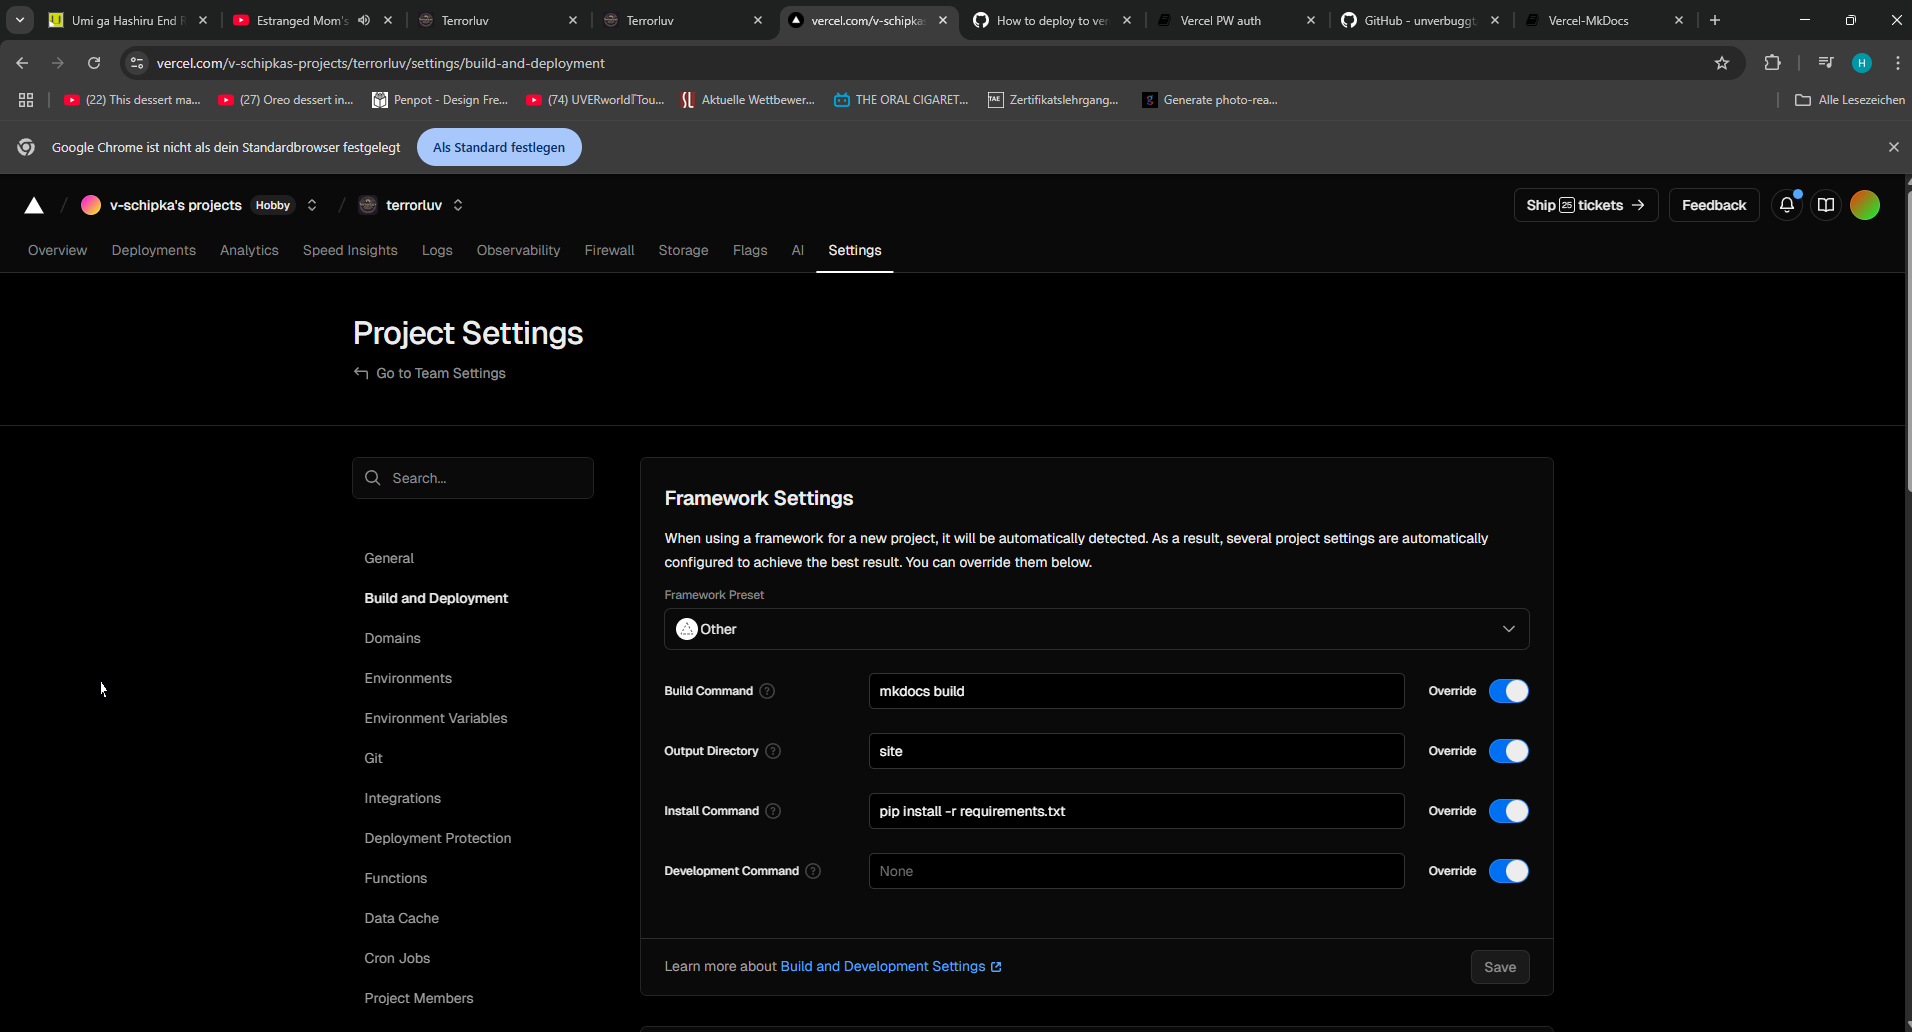
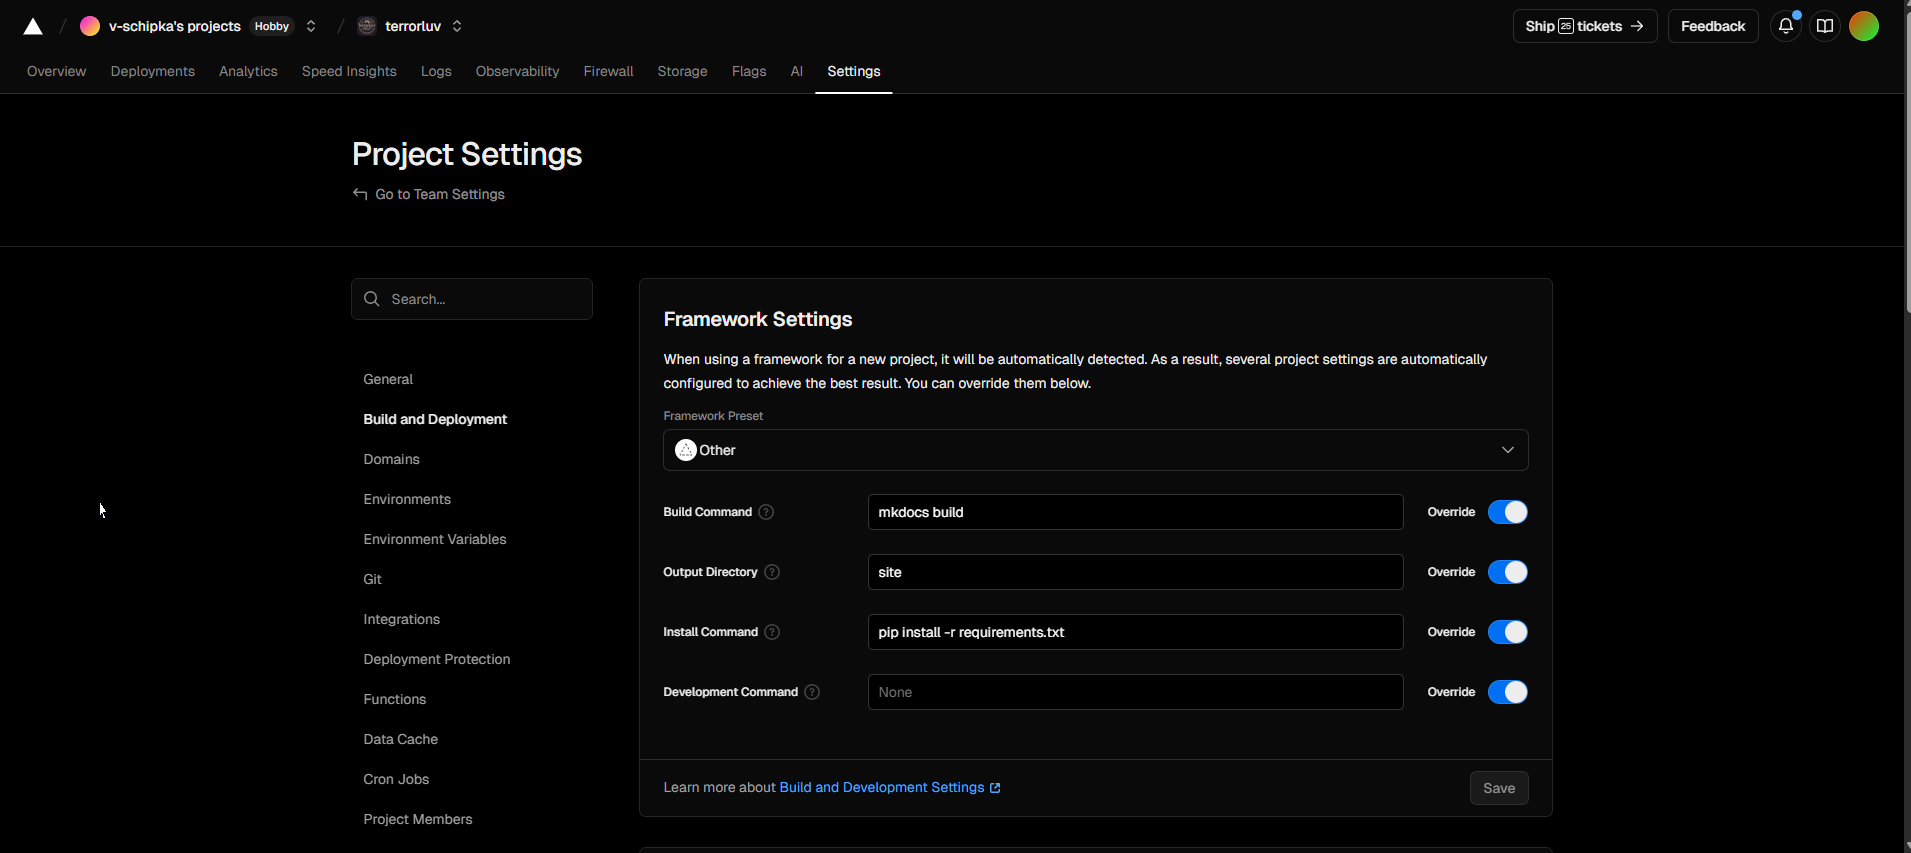
Vale + NotebookLM

diff --git a/content/Tools & Scripts/Vale.md b/content/Tools & Scripts/Vale.md
@@ -1,0 +1,126 @@
+---
+publish: true
+---
+
+Vale is an open source style & grammar Linter.
+It enforces style guides and integrates into CI/CD alongside [[MkDocs]] and other [[Static Site Generators]].
+
+## Resources
+- [Vale Website](https://vale.sh/)
+- [Vale Documentation](https://vale.sh/docs)
+- [Vale Config Generator](https://vale.sh/generator)
+- [Vale Extension for VS Code](https://marketplace.visualstudio.com/items?itemName=ChrisChinchilla.vale-vscode)
+
+## Setup
+
+1. Install Vale from the [Vale GitHub project](https://github.com/errata-ai/vale).
+2. Create a `.vale.ini` config file in the **root of your MkDocs project**:
+```ini
+StylesPath = .vale-styles 
+# StylesPath → location of custom rules
+MinAlertLevel = suggestion
+# MinAlertLevel → can be `suggestion`, `warning`, or `error`.
+
+# Directories to lint
+[*.{md,markdown}]
+BasedOnStyles = Google, write-good
+# BasedOnStyles → choose base style guides (Vale ships with Google, Microsoft, write-good, etc.).
+
+```
+3. Create a folder `.vale-styles` to add style rules, e.g., a rule to avoid “simply”:
+```yaml
+# .vale-styles/Custom/Weasel.yml
+extends: existence
+message: "Avoid using '%s' — it can weaken your writing."
+ignorecase: true
+level: warning
+tokens:
+  - simply
+  - obviously
+  - clearly
+
+```
+4. Run both `mkdocs serve` and `vale --watch docs/` in two terminals to check your docs. `--watch` makes Vale continuously lint files and show warnings whenever you save changes. So you have MkDocs hot-reload in one terminal, Vale linting in another. Alternatively use a script to run both commands at once:
+```bash
+mkdocs serve &
+vale --watch docs/
+wait
+```
+
+## Editor Integration
+
+- **VS Code** → The official [Vale extension](https://marketplace.visualstudio.com/items?itemName=ChrisChinchilla.vale-vscode) highlights issues _inline_ in your Markdown while typing. 
+- **Notepad++** → No direct Vale plugin, but you could:
+       - Add a **“Run Vale” external tool** mapped to a hotkey (`Plugins → NPPExec` or `Run` menu).
+    - Vale outputs to a console window inside Notepad++, though not inline highlighting.
+
+## Style Guides
+
+Vale ships with the following pre-built style guides you can include in your `.vale.ini`:
+
+- `write-good` → Based on the classic “write-good” linter (passive voice, weasel words, filler).
+- `Google` → Based on the Google Developer Documentation Style Guide.
+- `Microsoft` → Based on the Microsoft Writing Style Guide.
+- `RedHat` → Based on Red Hat’s style guidelines.
+- `IBM` → Based on IBM style rules.
+- `proselint` → A prose linter with general grammar & style checks.
+
+## Custom Rules
+
+Write rules as `.yml` files under `.vale-styles/`, e.g., `.vale-styles/STE/` and reference them in `valve.ini` using `BasedOnStyles = STE`. If you have a custom style guide you can gradually codify each rule into Vale rules. For example:
+
+- “Don’t use contractions” → `substitution` rule.
+- “Always use Oxford comma” → `existence` rule.
+- “Avoid jargon” → `substitution` rule with preferred alternatives.
+
+### Examples
+
+- Restrict vocabulary:
+```yaml
+# .vale-styles/STE/AllowedTerms.yml
+extends: substitution
+message: "Use '%s' instead of '%s' (Simplified Technical English rule)."
+level: error
+ignorecase: true
+swap:
+  utilise: use
+  commence: start
+  terminate: stop
+
+```
+- Enforce short sentences:
+```yaml
+# .vale-styles/STE/SentenceLength.yml
+extends: occurrence
+message: "Sentences in STE should be fewer than 20 words."
+scope: sentence
+level: warning
+max: 20
+```
+- Passive voice:
+```yaml
+# .vale-styles/STE/PassiveVoice.yml
+extends: existence
+message: "Passive voice is not allowed under STE; use active voice."
+level: error
+ignorecase: true
+tokens:
+  - "\\b(is|was|were|are|been|being) \\w+ed\\b"
+```
+- Enforce capitalization in page titles:
+```yaml
+extends: capitalization
+message: "'%s' should be in title case"
+level: warning
+scope: text.frontmatter.title
+```
+- Avoid "..."
+```yaml
+extends: existence
+message: "Don't use ... in documentation."
+nonword: true
+action:
+  name: remove
+tokens:
+  - '...'
+```

diff --git a/content/Tools & Scripts/NotebookLM.md b/content/Tools & Scripts/NotebookLM.md
@@ -1,0 +1,19 @@
+---
+publish: true
+---
+NotebookLM is Google’s AI-powered “research assistant”. For this, you upload source data to NotebookLM.
+
+## Features
+
+| Feature Category            | What You Can Do                                                                |
+| --------------------------- | ------------------------------------------------------------------------------ |
+| **Summarization & Q&A**     | Upload sources + get summaries, answers with citations                         |
+| **Audio Overviews**         | Listen to podcasts or join the conversation interactively                      |
+| **Mind Maps**               | Visually explore and navigate your content structure                           |
+| **Interface & Notes**       | Manage sources, save notes, pin AI responses, navigate easily                  |
+| **Creative Outputs**        | Generate study guides, outlines, FAQs, timelines, briefings                    |
+| **Sharing & Collaboration** | Publish notebooks, and work with expert-curated templates                      |
+| **Plus Tier Advantages**    | Larger limits, advanced customization, team collaboration, enterprise security |
+## Resources
+
+- [NotebookLM Website](https://notebooklm.google/)

diff --git a/content/LLMs/GEO.md b/content/LLMs/GEO.md
@@ -3,7 +3,7 @@
 ---
 
 
-LLM seeding is the practice of publishing content in the formats and places LLMs are most likely to scrape, summarize, and cite. LLM seeding includes:
+Generative Engine Optimization (GEO) or "LLM seeding" is the practice of publishing content in the formats and places LLMs are most likely to scrape, summarize, and cite. LLM seeding includes:
 - What to publish so LLMs actually cite you
 - Where to seed your content for maximum pickup
 - And how to track whether your brand is showing up

diff --git a/content/Static Site Generators/MkDocs Plugins.md b/content/Static Site Generators/MkDocs Plugins.md
@@ -1,0 +1,6 @@
+Just a list of useful [[MkDocs]] plugins that I want to try out.
+
+- [MkDocs AI Summary](https://wcowin.work/Mkdocs-AI-Summary-Plus/?utm_source=chatgpt.com)
+- [MkDocs Live Edit Plugin](https://github.com/EddyLuten/mkdocs-live-edit-plugin?tab=readme-ov-file)
+- [MkDocs Syntax Highlight for VS Code](https://marketplace.visualstudio.com/items?itemName=aikebang.mkdocs-syntax-highlight)
+- 

diff --git a/content/index.md b/content/index.md
@@ -104,7 +104,7 @@ Recently Created:
 - [[Tools & Scripts/Linkchecker\|Linkchecker]]
 - [[Tools & Scripts/Obsidian\|Obsidian]]
 - [[Tools & Scripts/Terminology Check in Notepad++\|Terminology Check in Notepad++]]
-- [[Tools & Scripts/Write VS Code Extensions\|Write VS Code Extensions]]
+- [[How to Write VS Code Extensions\|Write VS Code Extensions]]
 
 
 ### UX-Writing

diff --git a/content/LLMs/Resources.md b/content/LLMs/Resources.md
@@ -1,0 +1,11 @@
+
+## Visual Studio Code
+
+- [Article: MCP now live for everyone in Visual Studio](https://www.neowin.net/news/mcp-now-live-for-everyone-in-visual-studio/)
+
+## GitHub Projects
+
+## Concepts
+
+- [AGENTS.md (a simple, open format for guiding coding agents)](https://agents.md/)
+- 
